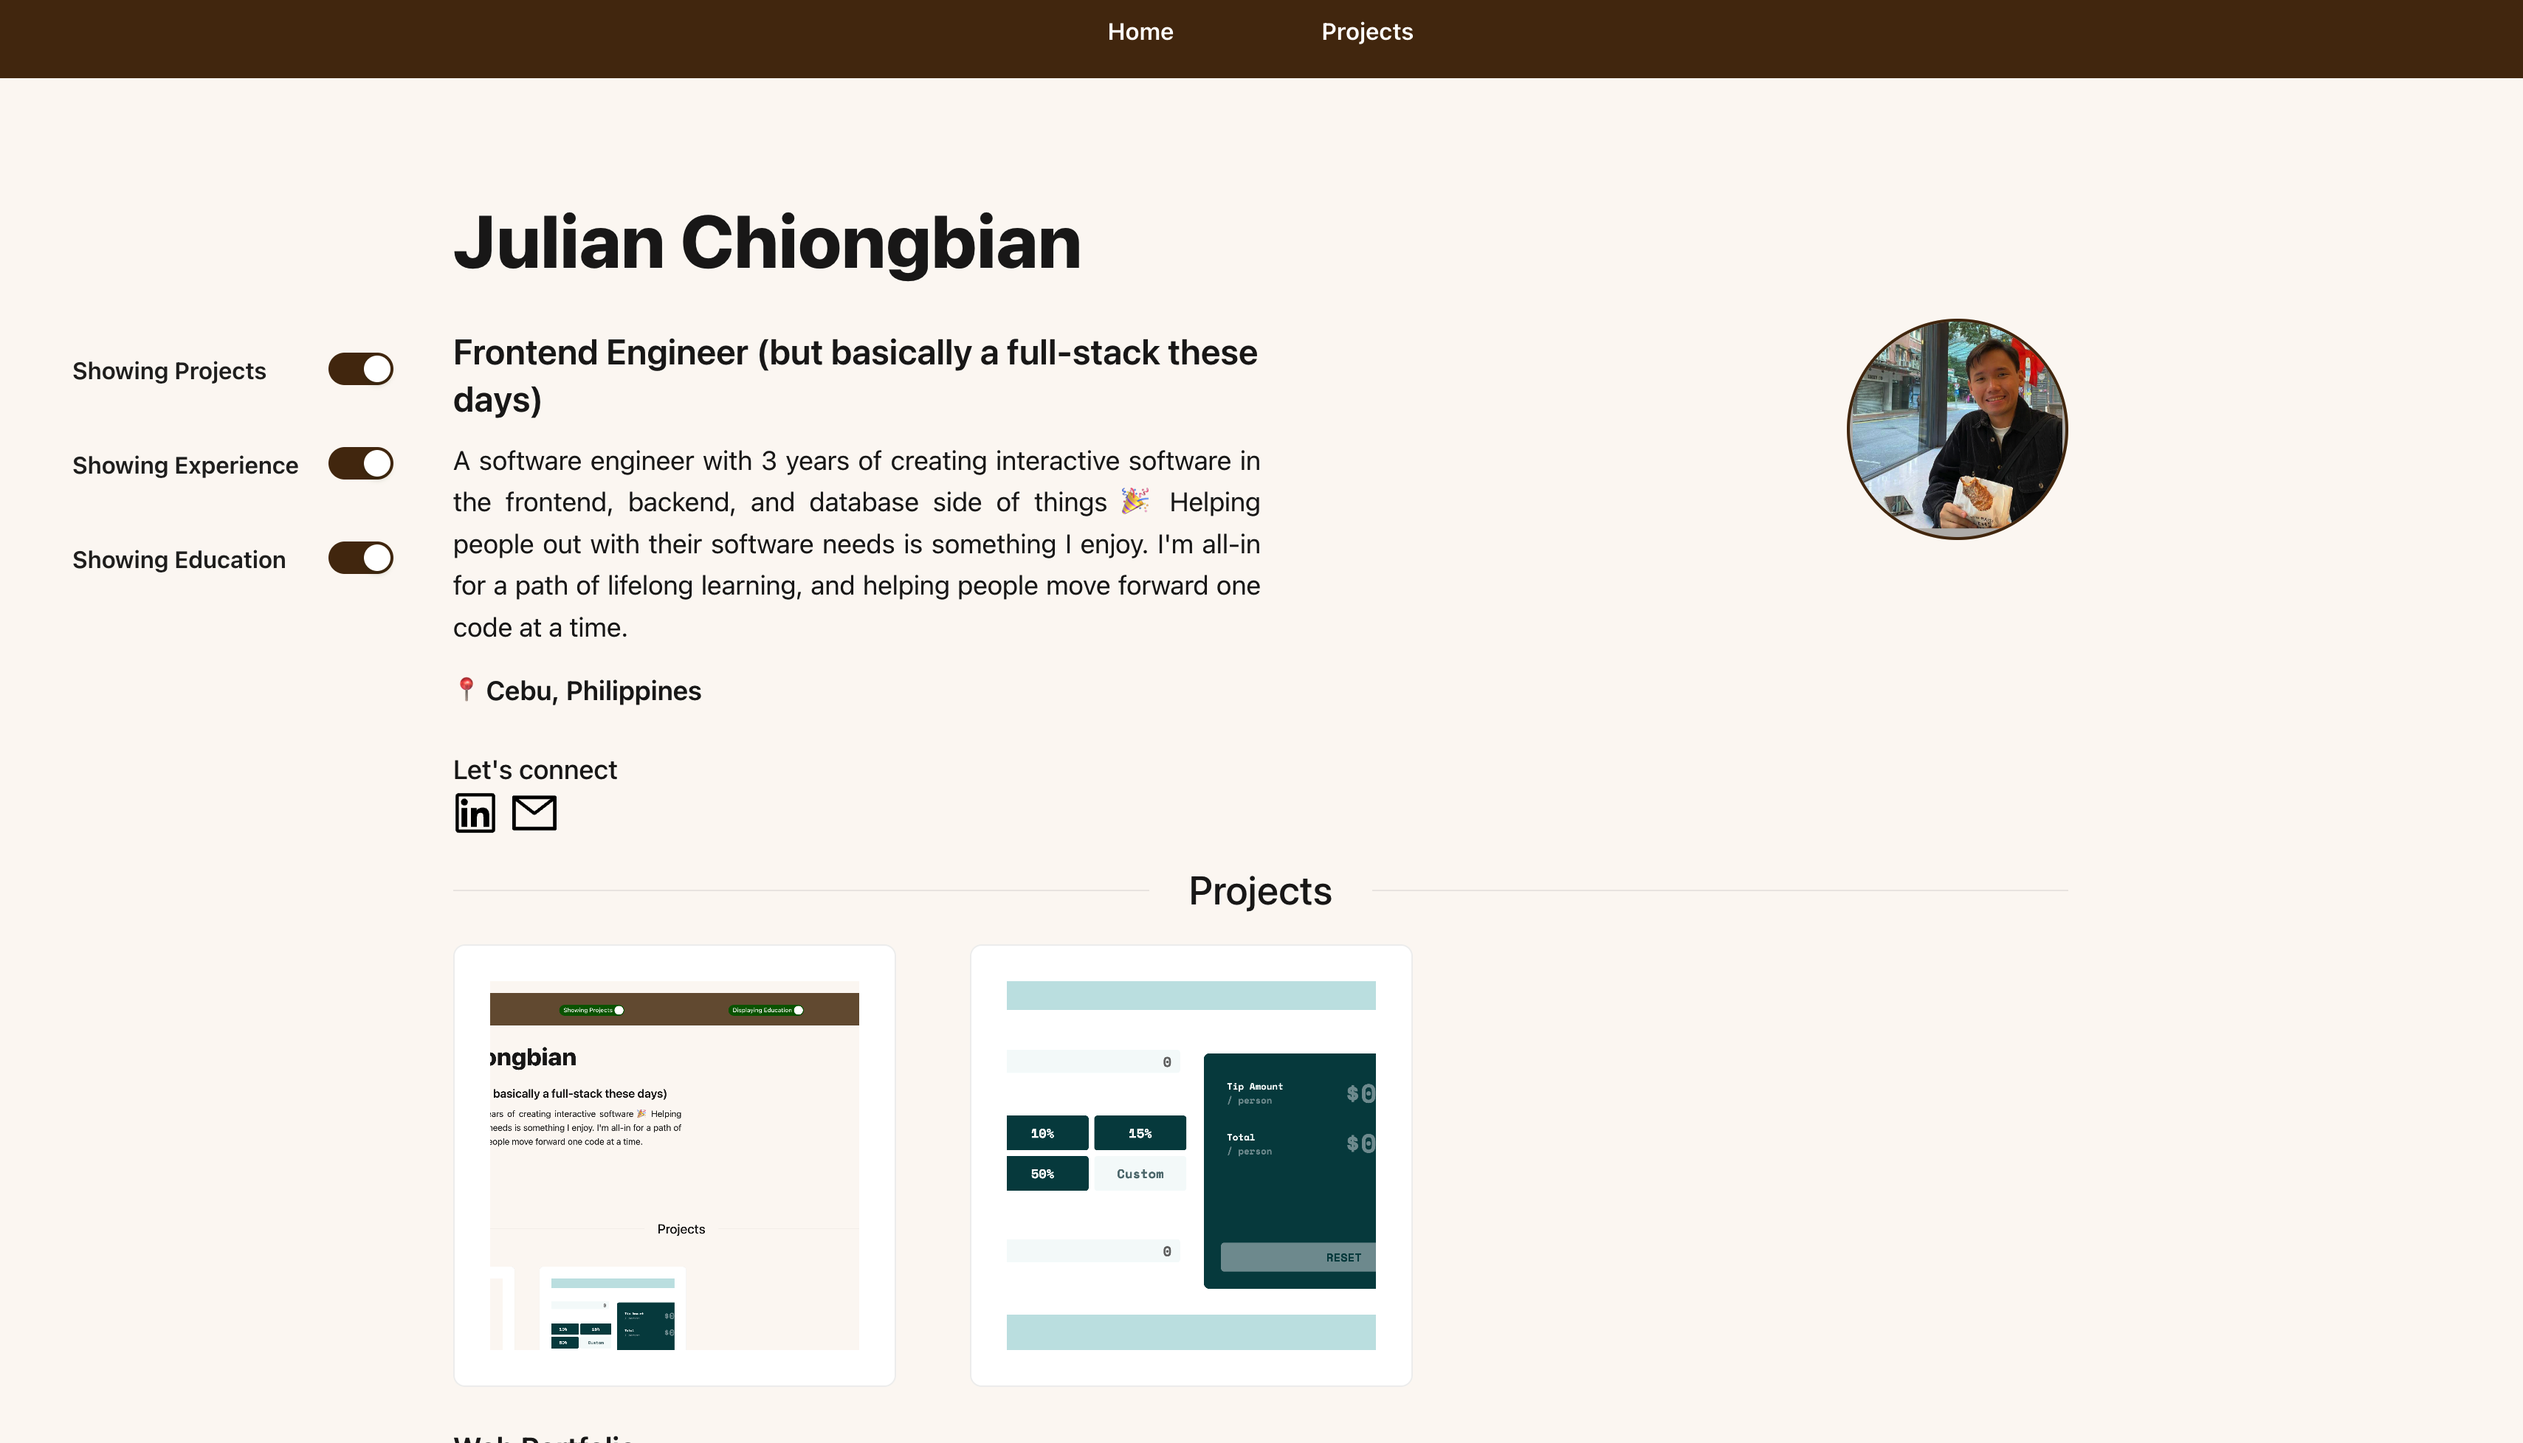
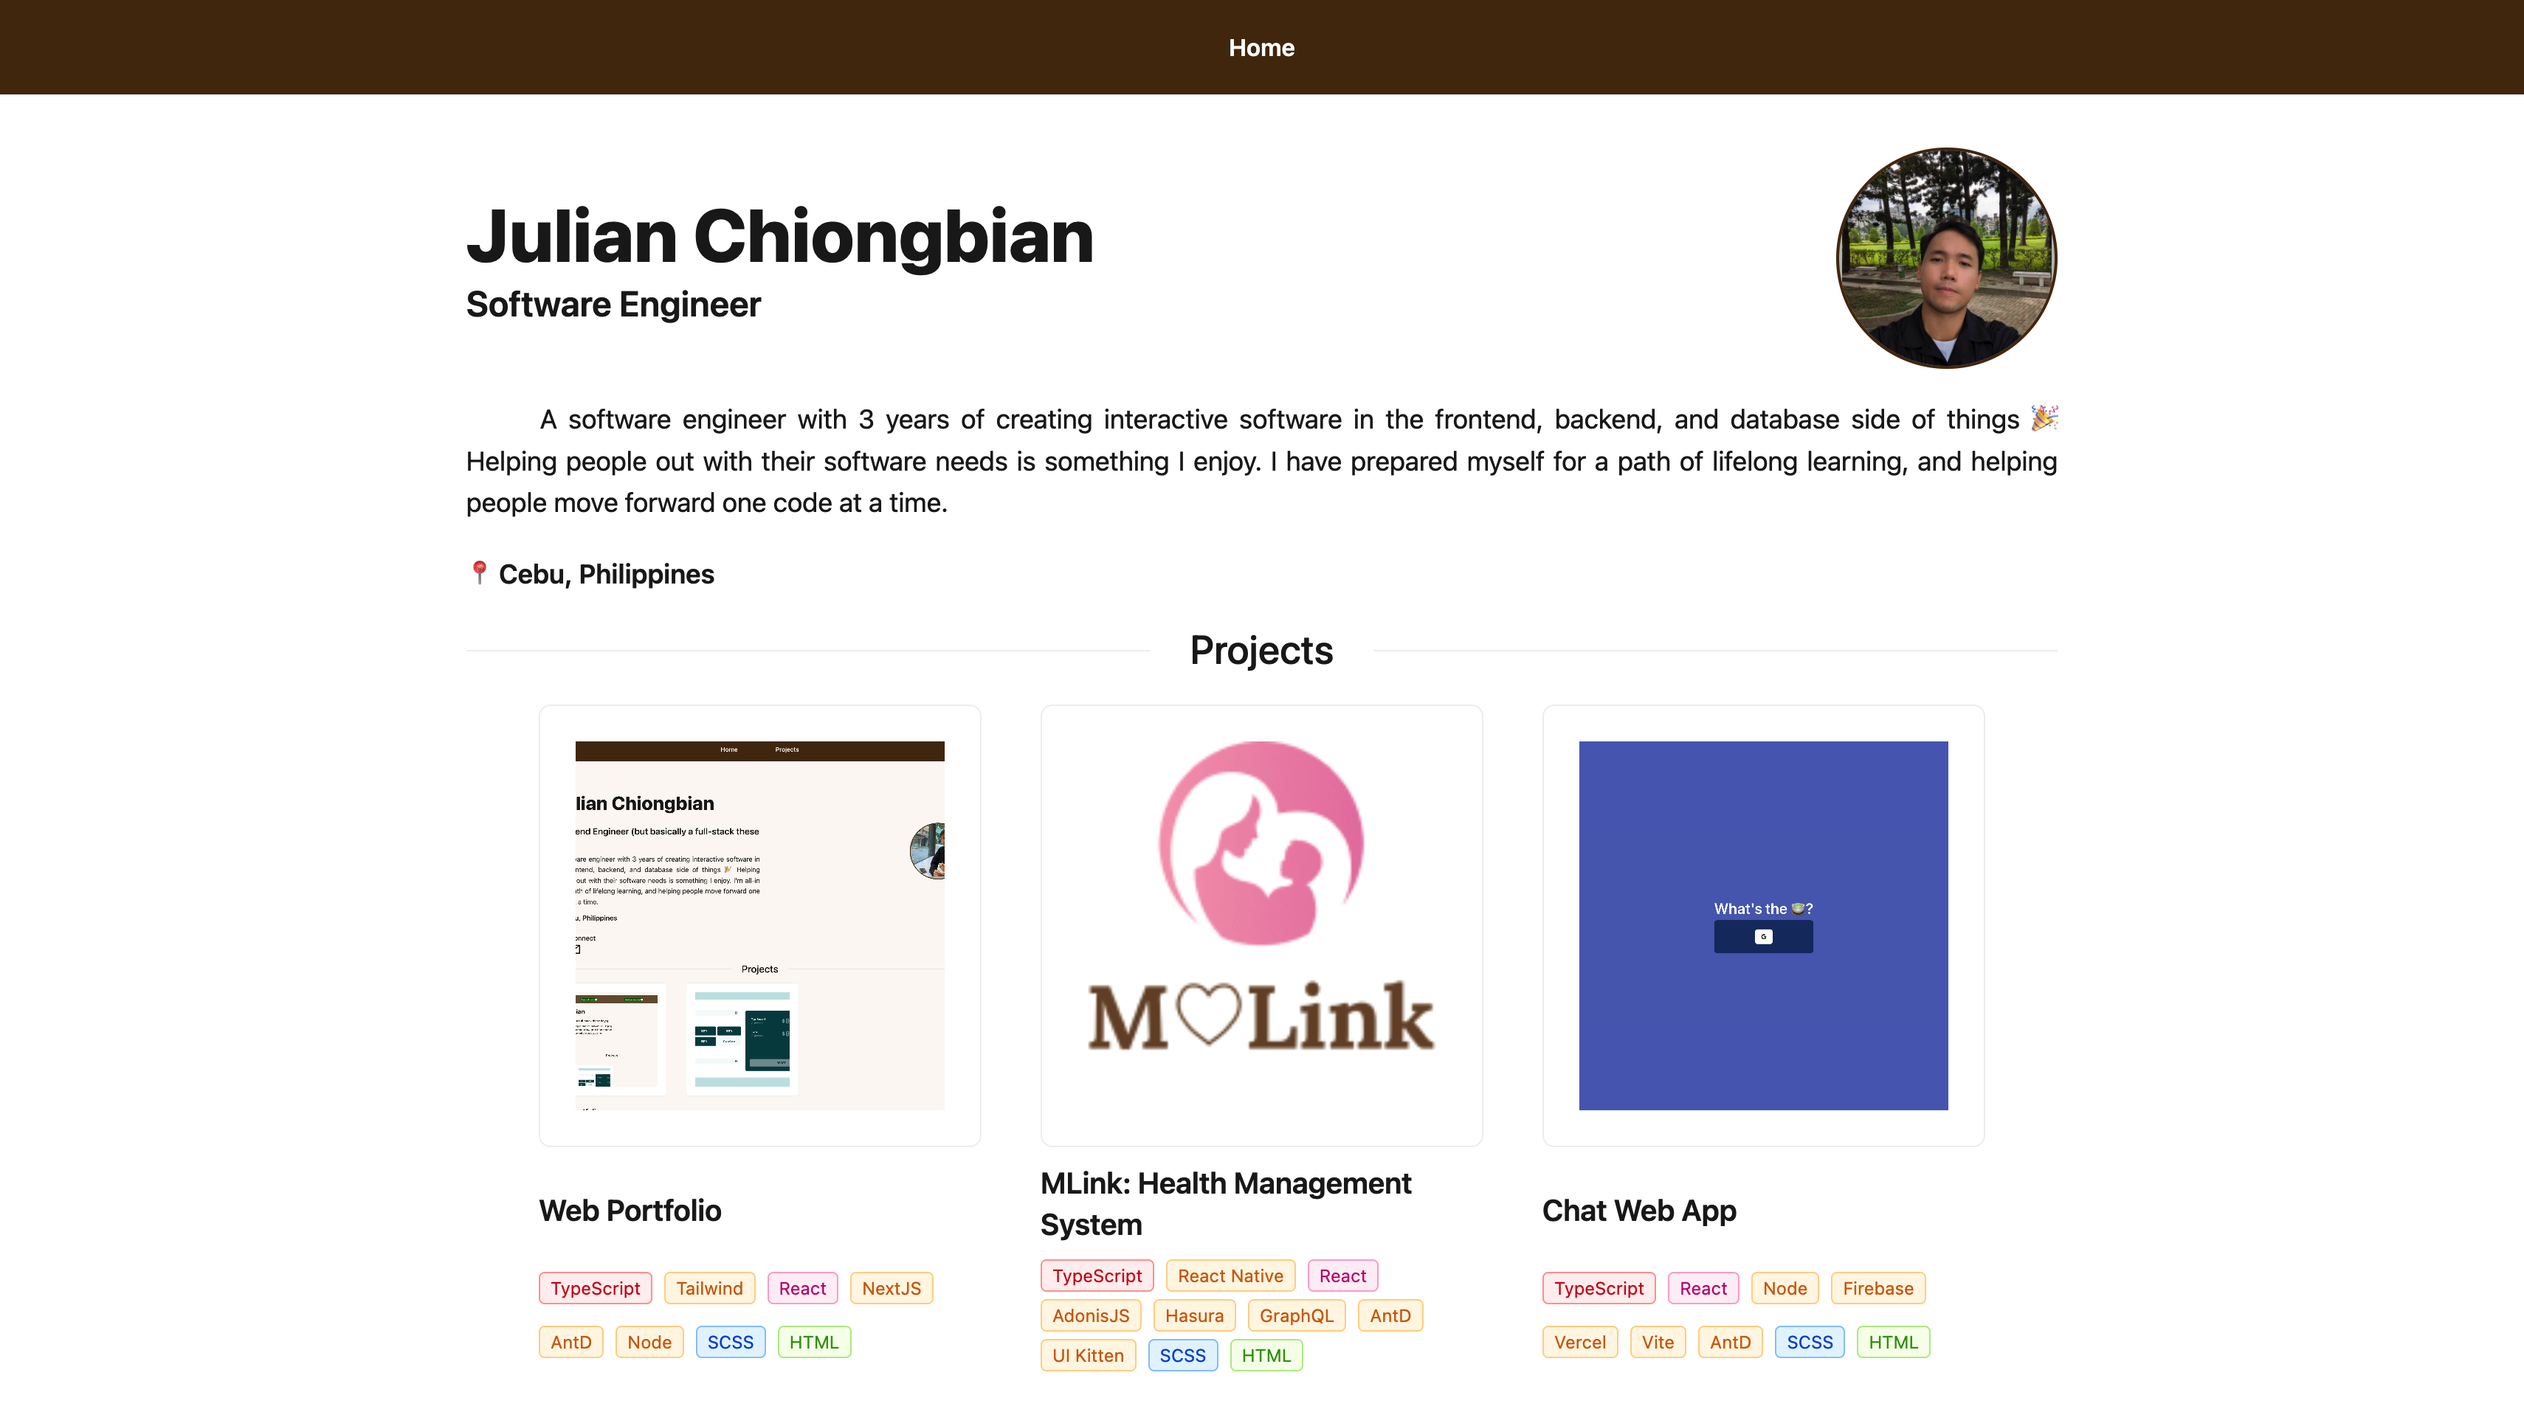
feat: added email button

diff --git a/src/app/pages/layout.tsx b/src/app/pages/layout.tsx
@@ -2,7 +2,7 @@
 
 import { Button, Col, Menu, Row } from "antd";
 import Title from "antd/es/typography/Title";
-import { SendOutlined } from "@ant-design/icons";
+import { SendOutlined, MailOutlined } from "@ant-design/icons";
 import "../../app/globals.scss";
 import { useRouter } from "next/navigation";
 import { useEffect, useState } from "react";
@@ -45,13 +45,13 @@ export default function MainLayout({
         <Col style={{ marginTop: "100px" }}>{children}</Col>
       </div>
 
-      <footer id="footer-container">
+      <footer id="footer-container" style={{ textAlign: "center" }}>
         <Row>
           <Col>
             <Title style={{ color: "white" }} level={2}>
               Want to work with me?
             </Title>
-            <Row style={{ justifyContent: "center" }}>
+            <Row style={{ justifyContent: "center", columnGap: "10px" }}>
               <Button
                 size="large"
                 style={{
@@ -62,7 +62,7 @@ export default function MainLayout({
                   fontWeight: "500",
                 }}
                 iconPosition="end"
-                icon={<SendOutlined />}
+                icon={<SendOutlined style={{ fontSize: "20px" }} />}
                 onClick={() =>
                   window
                     ?.open(
@@ -73,6 +73,25 @@ export default function MainLayout({
                 }
               >
                 DM me on LinkedIn
+              </Button>
+              <Button
+                size="large"
+                style={{
+                  backgroundColor: "#543310",
+                  color: "white",
+                  outline: "none",
+                  border: "none",
+                  fontWeight: "500",
+                }}
+                iconPosition="end"
+                icon={<MailOutlined style={{ fontSize: "20px" }} />}
+                onClick={() =>
+                  window
+                    ?.open("mailto:carlosjulian.chiongbian@gmail.com", "#")
+                    ?.focus()
+                }
+              >
+                Send me an email
               </Button>
             </Row>
           </Col>

diff --git a/src/app/pages/home/page.tsx b/src/app/pages/home/page.tsx
@@ -105,13 +105,13 @@ const Home = () => {
             Software Engineer
           </Title>
         </Col>
-        <Avatar className="avatar-web" size={140}>
+        <Avatar className="avatar-web" size={150}>
           <Image
             src={"/avatar-photo.jpg"}
             className="avatar-pic"
             alt="avatar-pic"
-            width={300}
-            height={300}
+            width={400}
+            height={550}
             unoptimized={true}
           />
         </Avatar>

diff --git a/src/app/globals.scss b/src/app/globals.scss
@@ -40,7 +40,7 @@
 }
 
 #footer-container {
-  padding-block: 100px;
+  padding-block: 120px;
   display: flex;
   flex-direction: row;
   align-items: center;
@@ -93,9 +93,9 @@
 }
 
 .avatar-pic {
-  width: 100%;
-  height: 100%;
-  object-fit: cover;
+  // width: 100%;
+  // height: 100%;
+  // object-fit: cover;
   top: 0;
   left: 0;
 }
@@ -190,6 +190,7 @@
 }
 
 .project-image {
+  border: 1px solid rgb(237, 227, 227);
   border-radius: 10px;
 }
 
